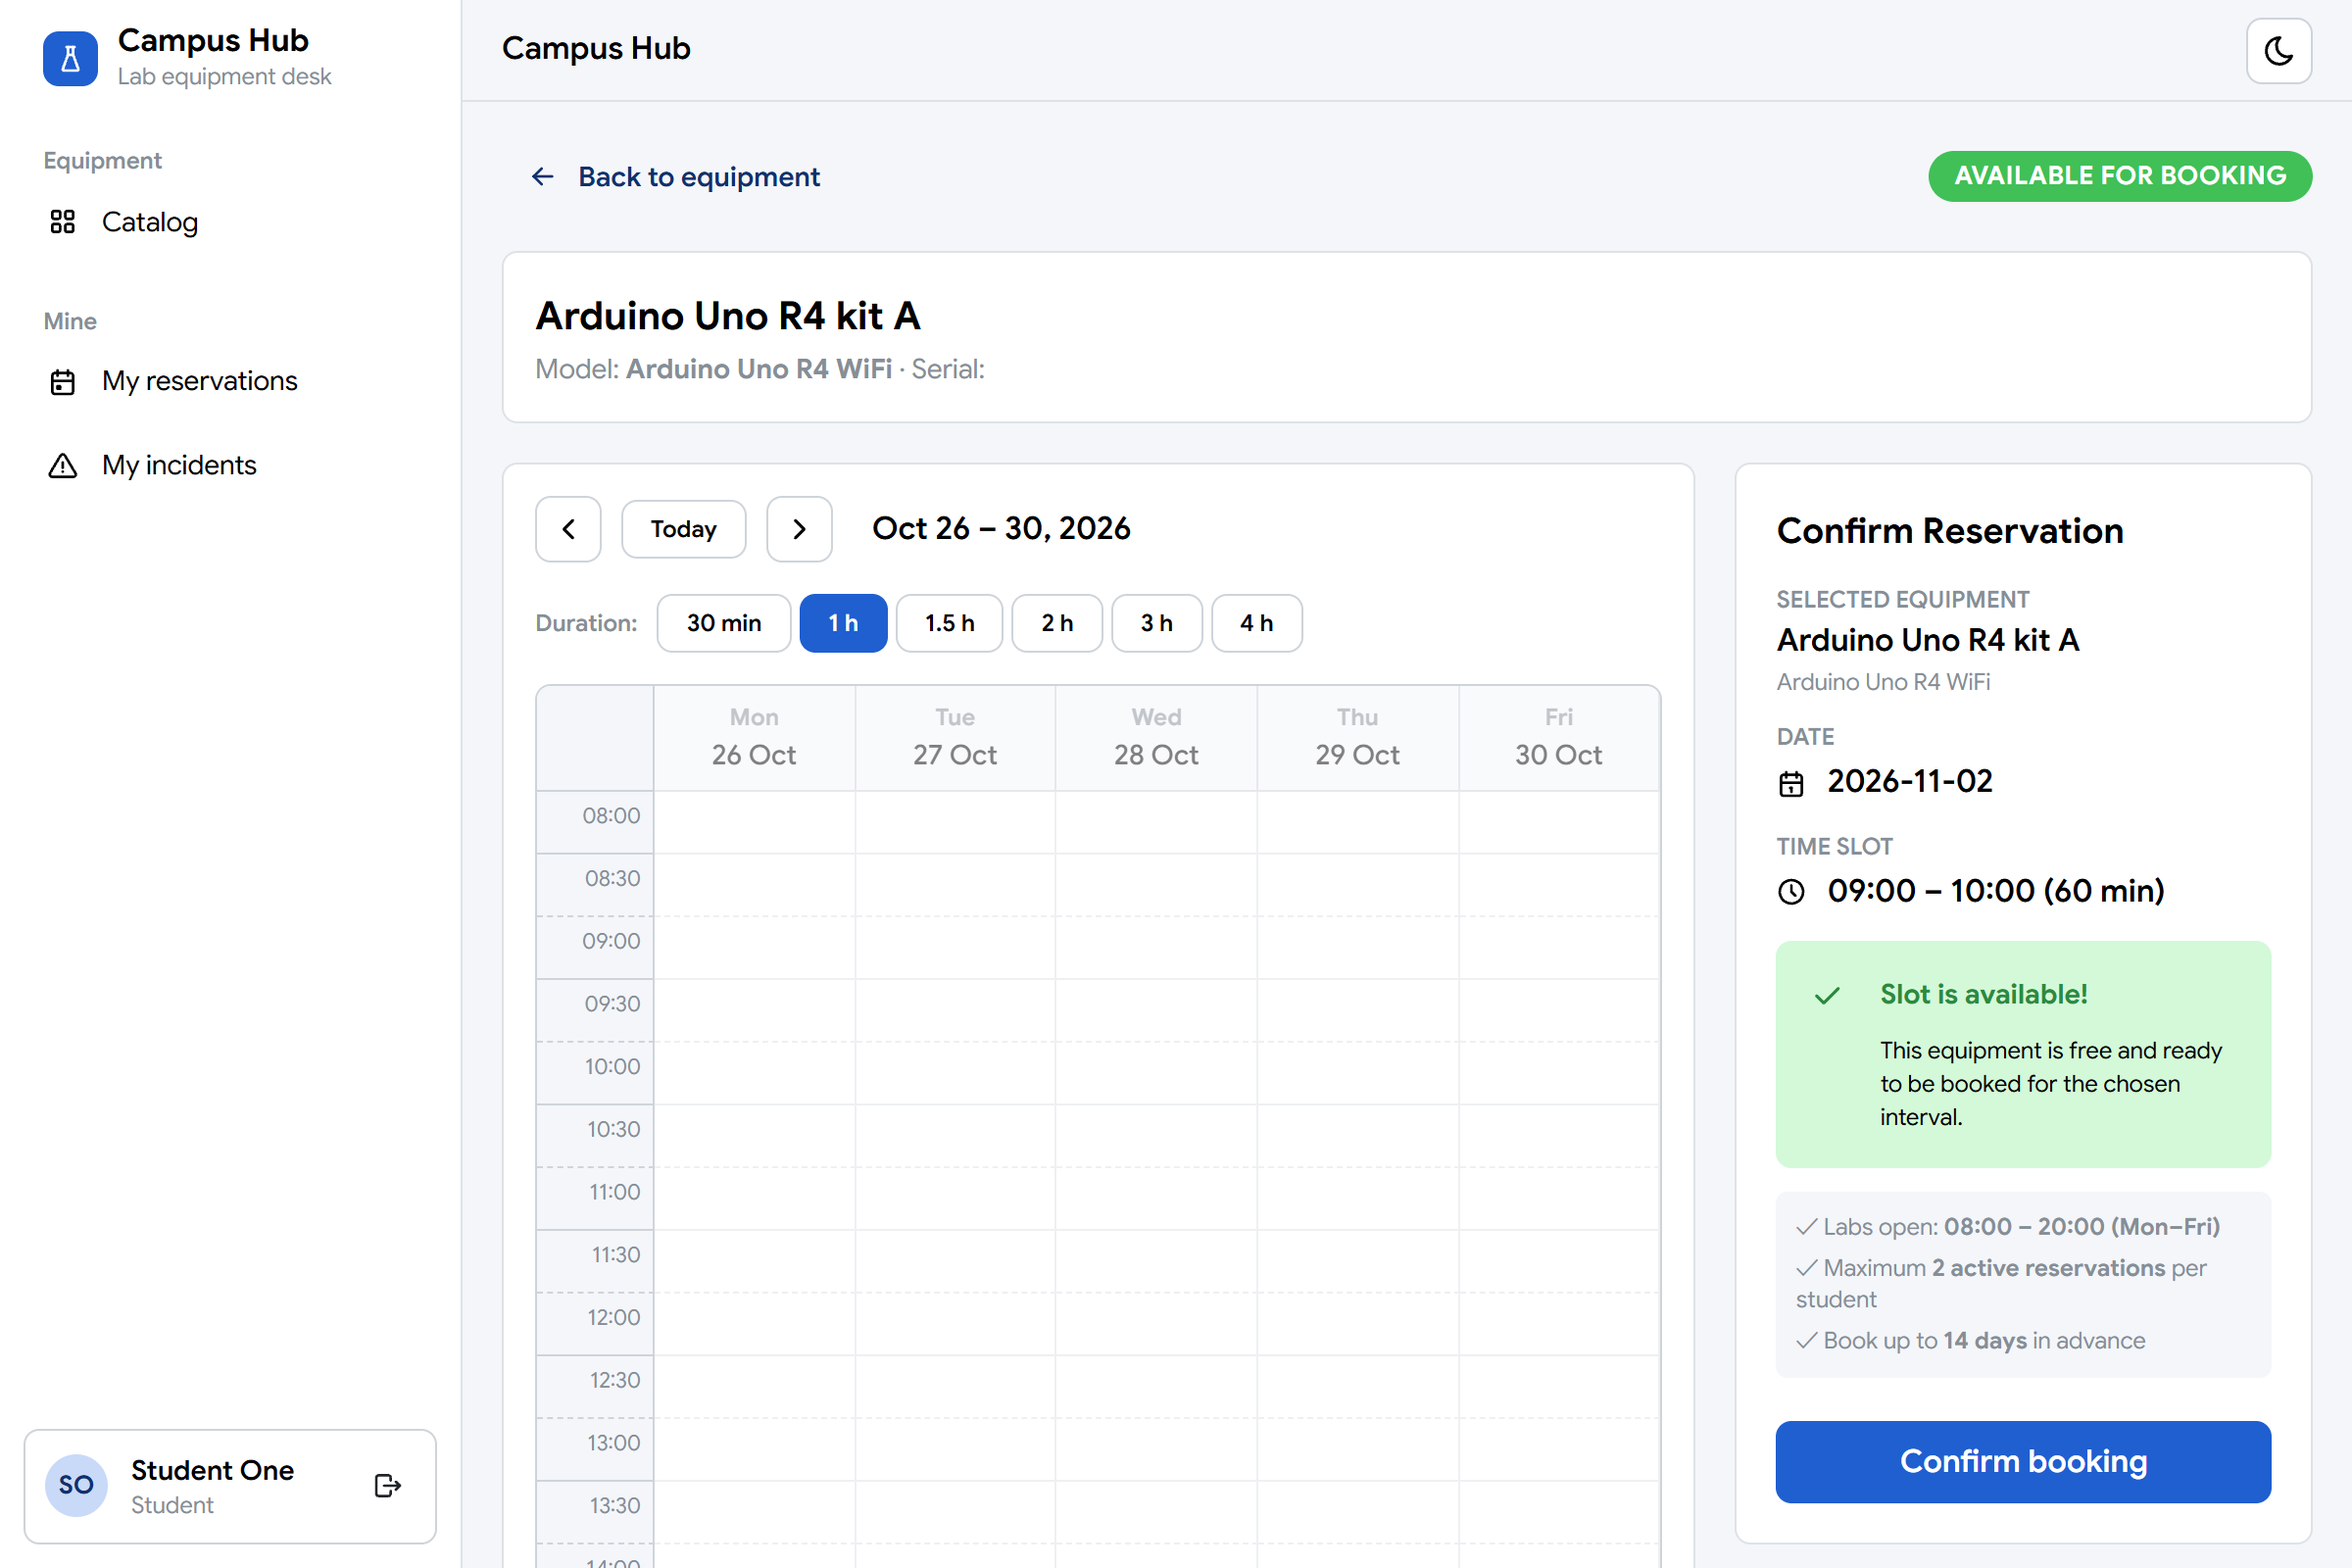
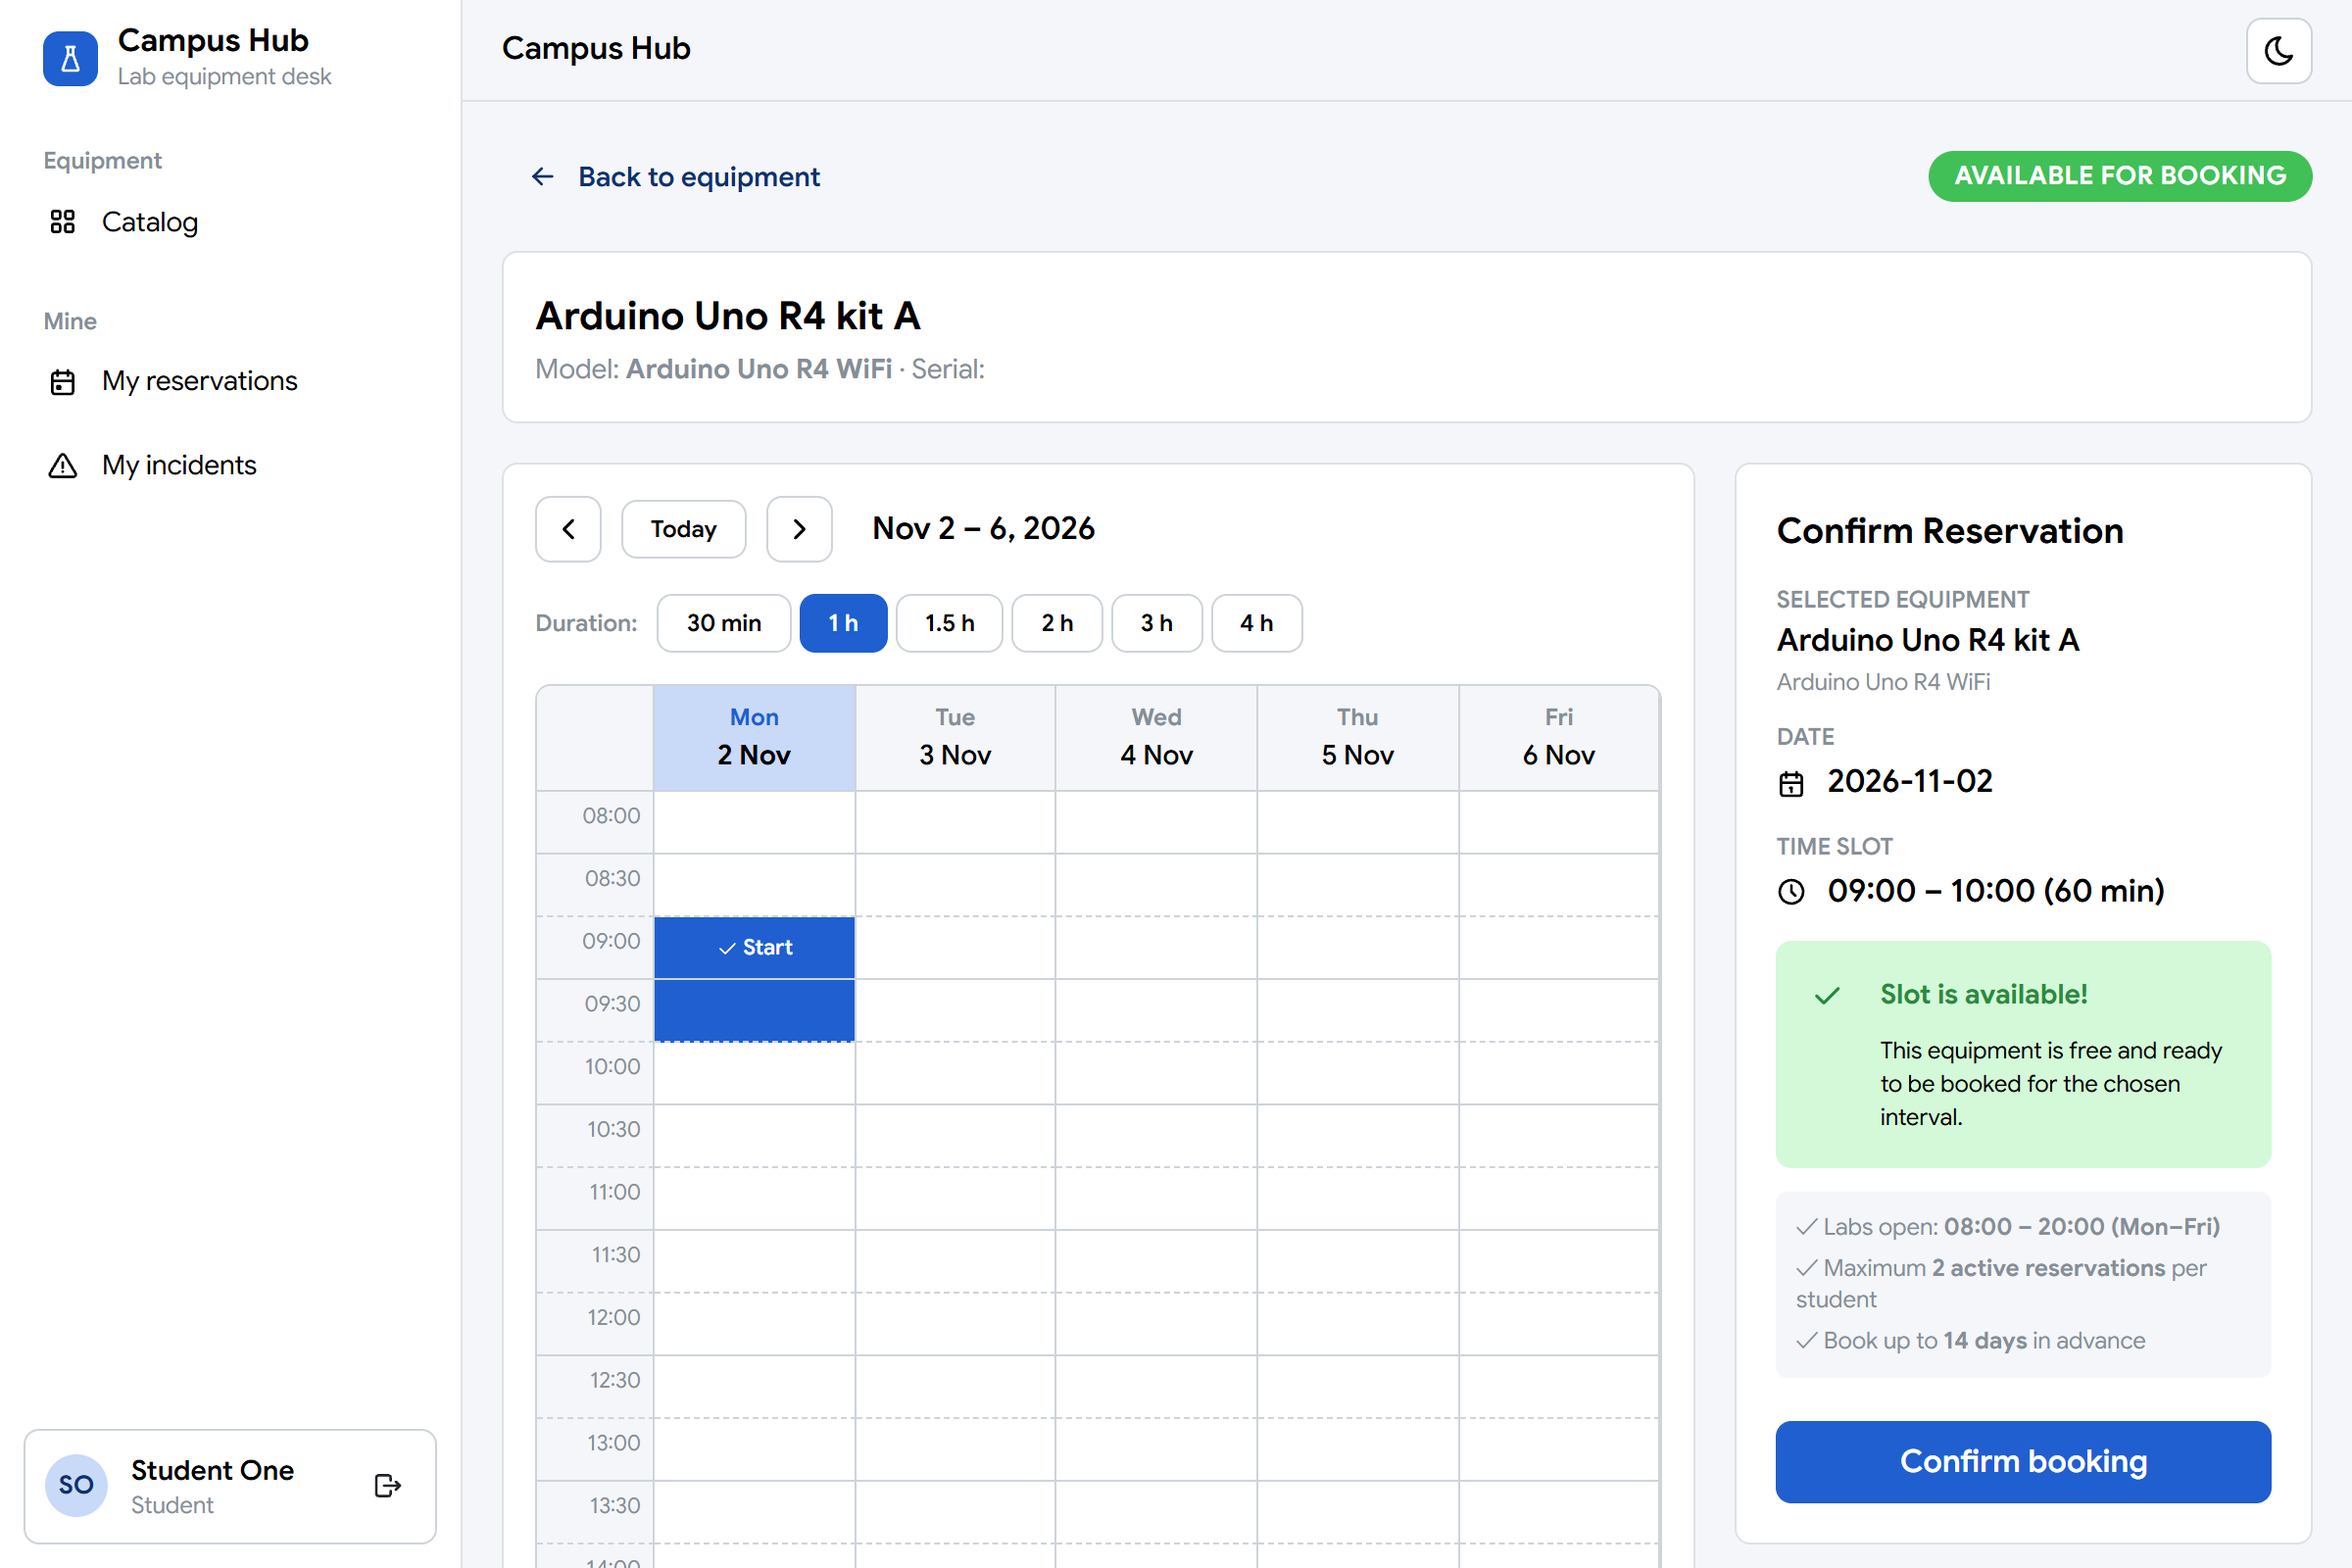
fix(reservation): fix weekend calendar view and capture 19:30 closing rule screenshot

diff --git a/frontend/src/components/CalendarBookingView.tsx b/frontend/src/components/CalendarBookingView.tsx
@@ -88,8 +88,16 @@ export default function CalendarBookingView({ asset, onBack, onSuccess }: Props)
   const [today] = useState(() => new Date())
   const maxBookingDate = useMemo(() => new Date(today.getTime() + 14 * 86400000), [today])
 
-  // Current view's Monday
-  const [currentMonday, setCurrentMonday] = useState(() => getMonday(today))
+  // Current view's Monday (on weekends, show the upcoming week so slots are active)
+  const [currentMonday, setCurrentMonday] = useState(() => {
+    const dayOfWeek = today.getDay()
+    if (dayOfWeek === 0 || dayOfWeek === 6) {
+      const nextMon = getMonday(today)
+      nextMon.setDate(nextMon.getDate() + 7)
+      return nextMon
+    }
+    return getMonday(today)
+  })
 
   // Selected slot state
   const [selectedDay, setSelectedDay] = useState<string>(() => {
@@ -418,6 +426,8 @@ export default function CalendarBookingView({ asset, onBack, onSuccess }: Props)
                       return (
                         <Box
                           key={`${dayKey}-${stepTime}`}
+                          data-time={stepTime}
+                          data-day={dayKey}
                           onClick={() => {
                             if (!isPastDay && !isOutOfHorizon) {
                               setSelectedDay(dayKey)
